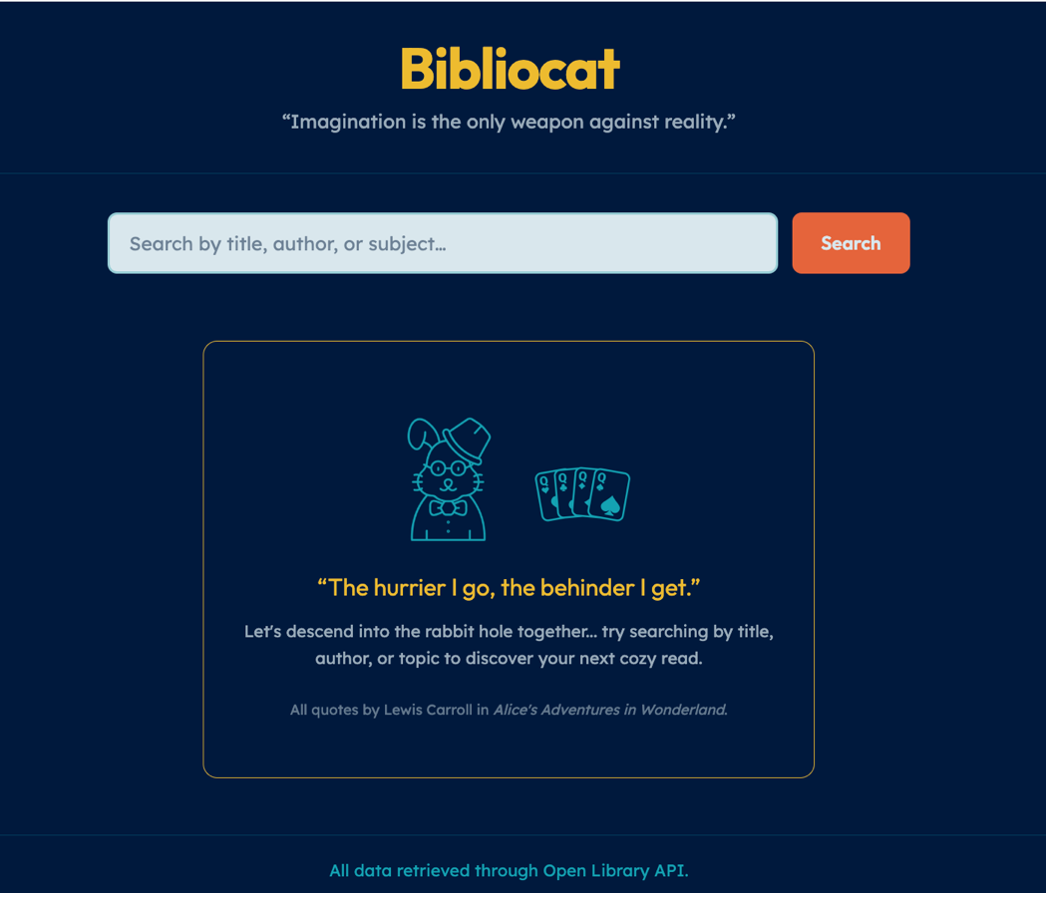
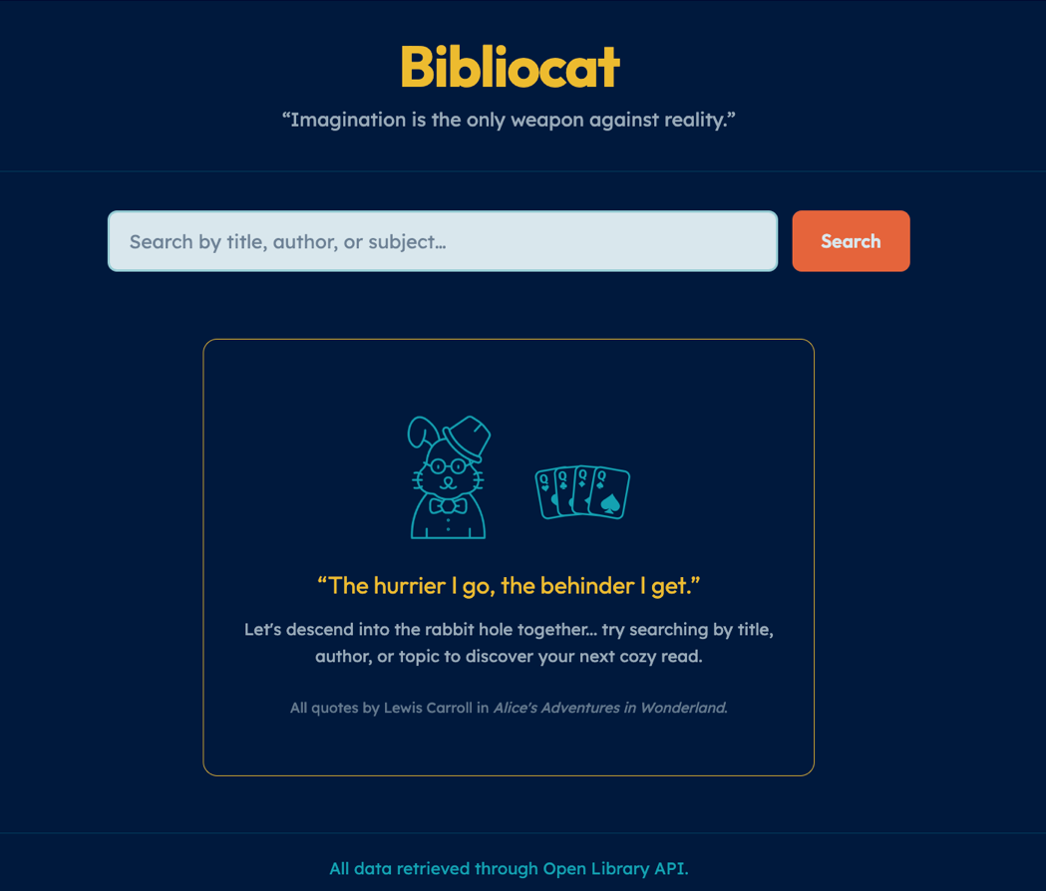
Bibliocat additional edits

diff --git a/bibliocat/index.html b/bibliocat/index.html
@@ -803,9 +803,9 @@
 
       /* Trim subpixel slide peek and screenshot edge padding on desktop */
       .theme-gallery--compact .theme-gallery__slide img {
-        width: calc(100% + 4px);
+        width: calc(100% + 8px);
         max-width: none;
-        margin-left: -2px;
+        margin-left: -4px;
         object-position: center center;
       }
     }
@@ -1225,7 +1225,7 @@
         <p class="project-hero__tagline type-subheading">Book search and discovery for titles, authors, and covers.</p>
         <p class="project-hero__summary type-body text-muted">Fall down the rabbit hole of literature with Bibliocat, a book discovery tool powered by Open Library API. Search by title, author, or subject to find your next great adventure.</p>
         <figure class="project-hero__media">
-          <img src="assets/hero-mockup-new-biblio.png" alt="Meet Bibliocat feature overview with an Enchanted User Experience summary beside a tablet mockup of the Bibliocat home page.">
+          <img src="assets/mockup-hero-new-biblio.png" alt="Meet Bibliocat feature overview with an Enchanted User Experience summary beside a tablet mockup of the Bibliocat home page.">
         </figure>
         <dl class="project-meta">
           <div class="project-meta__item">
@@ -1330,7 +1330,7 @@
             <img src="assets/prompt3.png" alt="Cursor prompt requesting a loading message and cat silhouette animation while search results load">
           </figure>
         </div>
-        <p class="section__body type-body text-muted">These are design iterations of the loading status.</p>
+        <p class="section__body type-body text-muted">The design iterations for the loading status are displayed below.</p>
         <div class="theme-gallery theme-gallery--compact" data-gallery>
           <p class="theme-gallery__hint type-caption">
             <i data-lucide="move-horizontal" aria-hidden="true"></i>
@@ -1360,7 +1360,7 @@
           </div>
           <p class="theme-gallery__caption type-body" aria-live="polite"></p>
         </div>
-        <p class="section__body type-body text-muted">It was important for me to have paw print stamps throughout the theme to emulate footprints. This video showcases the loading state in action, featuring the custom paw-print animation.</p>
+        <p class="section__body type-body text-muted">I incorporated a paw-print stamp to mimic a trail of footprints. The video below demonstrates this custom animation during the loading state.</p>
         <div class="case-study-visual case-study-visual--night">
           <p class="theme-gallery__figure-title"><span class="theme-gallery__figure-label">Figure 6.</span> Loading state in action</p>
           <figure class="theme-card__figure">
@@ -1448,7 +1448,7 @@
             <img src="assets/prompt6.png" alt="Cursor prompt optimizing search results presentation">
           </figure>
         </div>
-        <p class="section__body type-body text-muted">Later iterations included adding a &ldquo;Return to Home&rdquo; button, creating credits for icons used from Flaticon, reducing the size of the book cover images to make the search results appear sharper, and adding the book publication year and edition number.</p>
+        <p class="section__body type-body text-muted">Later iterations included adding a &ldquo;Return to Home&rdquo; button, creating credits for icons used from Flaticon, reducing the size of the book cover images to make the search results appear sharper, as well as adding the book publication year and edition number.</p>
         <div class="theme-gallery theme-gallery--compact" data-gallery>
           <p class="theme-gallery__hint type-caption">
             <i data-lucide="move-horizontal" aria-hidden="true"></i>
@@ -1481,7 +1481,7 @@
           </div>
           <p class="theme-gallery__caption type-body" aria-live="polite"></p>
         </div>
-        <p class="section__body type-body text-muted">I also continued styling the home page across several prompt and design passes.</p>
+        <p class="section__body type-body text-muted">I also continued styling the home page, developing several additional prompts to further refine the design.</p>
         <div class="theme-gallery theme-gallery--compact" data-gallery>
           <p class="theme-gallery__hint type-caption">
             <i data-lucide="move-horizontal" aria-hidden="true"></i>
@@ -1585,20 +1585,22 @@
                 <img src="assets/bibliocat-search-screens.png" alt="Bibliocat search results on tablet and book detail view on phone showing Yellowface by R. F. Kuang">
               </figure>
               <ul class="feature-list type-body">
-                <li><strong>Quick search shortcuts —</strong> Unlock a seamless reading experience by simply clicking on the &ldquo;Surprise Me,&rdquo; &ldquo;Featured Author,&rdquo; or &ldquo;Fantasy&rdquo; genre filters, allowing you to effortlessly discover your next favorite book.</li>
-                <li><strong>Responsive UI feedback —</strong> Bibliocat captivates users with enchanting Alice-in-Wonderland-themed animations during loading states, ensuring the interface remains engaging and interactive while API calls are underway.</li>
+                <li><strong>Integrated summary retrieval —</strong> By capturing the unique work key for each search result, the application dynamically retrieves and displays detailed book descriptions to significantly enhance the user&rsquo;s experience.</li>
               </ul>
               <p class="theme-gallery__figure-title"><span class="theme-gallery__figure-label">Figure 17.</span> Themed loading feedback</p>
               <figure class="theme-card__figure theme-card__figure--full-width">
                 <img src="assets/bibliocat-loading-states.png" alt="Bibliocat loading states showing Alice-inspired animations and paw-print feedback">
               </figure>
               <ul class="feature-list type-body">
-                <li><strong>Integrated summary retrieval —</strong> By capturing the unique work key for each search result, the application dynamically retrieves and displays detailed book descriptions to significantly enhance the user&rsquo;s experience.</li>
+                <li><strong>Responsive UI feedback —</strong> Bibliocat captivates users with enchanting Alice-in-Wonderland-themed animations during loading states, ensuring the interface remains engaging and interactive while API calls are underway.</li>
               </ul>
               <p class="theme-gallery__figure-title"><span class="theme-gallery__figure-label">Figure 18.</span> Polished home page</p>
               <figure class="theme-card__figure theme-card__figure--full-width">
                 <img src="assets/bibliocat-home-laptop.png" alt="Bibliocat home page on a laptop with search, shortcuts, and Alice-inspired branding">
               </figure>
+              <ul class="feature-list type-body">
+                <li><strong>Quick search shortcuts —</strong> Easily discover your next favorite book by clicking on the &ldquo;Surprise Me,&rdquo; &ldquo;Featured Author,&rdquo; or &ldquo;Fantasy&rdquo; genre filters for a smooth, intuitive reading journey.</li>
+              </ul>
             </div>
           </div>
         </div>
@@ -1610,7 +1612,7 @@
         <header class="section__header">
           <h2 class="type-display-md case-caps">Deployment</h2>
         </header>
-        <p class="section__body type-body text-muted">The deployment provides users with an immersive, responsive, Alice-in-Wonderland-themed search tool that integrates data from the Open Library API. The Bibliocat application is live on Netlify.</p>
+        <p class="section__body type-body text-muted">The deployment provides users with an immersive, responsive, <em>Alice in Wonderland</em> themed search tool that integrates data from the Open Library API. The Bibliocat application is live on Netlify.</p>
         <p class="project-hero__actions">
           <a href="https://bibliocat.netlify.app/" class="btn btn--default btn--primary" target="_blank" rel="noopener noreferrer">
             Open published app
@@ -1624,7 +1626,7 @@
         <header class="section__header">
           <h2 class="type-display-md case-caps">Reflection</h2>
         </header>
-        <p class="section__body type-body text-muted">I most enjoyed moving beyond basic API integration to add themed loading states and consistent branding, which can create a more welcoming environment online. Technical hurdles, including creating a looping CSS animation for the pawprints during the loading state, enhanced my ability to use AI as a collaborator to resolve challenges. While I&rsquo;m happy with the current version, future iterations could include more filtering options, such as limiting results by subject and genre. Furthermore, to enhance the enchanted Alice in Wonderland theme, I&rsquo;d like to explore adding more animated imagery. For example, replacing the static teapot and teacup in the error state with a dynamic animation of tea being poured into a cup.</p>
+        <p class="section__body type-body text-muted">I most enjoyed moving beyond basic API integration to add themed loading states and consistent branding, which creates a more welcoming environment online. Technical hurdles, including integrating a looping CSS animation for the pawprints during the loading state, enhanced my ability to use AI as a collaborator to resolve challenges. While I&rsquo;m happy with the current version, future iterations could include more filtering options, such as limiting results by subject and genre. Furthermore, to enhance the enchanted <em>Alice in Wonderland</em> theme, I&rsquo;d like to explore adding more animated imagery. For example, replacing the static teapot and teacup in the error state with a dynamic animation of tea being poured into a teacup.</p>
       </div>
     </section>
 

diff --git a/bibliocat/content.md b/bibliocat/content.md
@@ -6,7 +6,7 @@ cardDescription: "Book search and discovery for titles, authors, and covers."
 coverImage: "assets/biblio-cover-new.png"
 coverAlt: "Bibliocat project cover"
 summary: "Fall down the rabbit hole of literature with Bibliocat, a book discovery tool powered by Open Library API. Search by title, author, or subject to find your next great adventure."
-heroImage: "assets/hero-mockup-new-biblio.png"
+heroImage: "assets/mockup-hero-new-biblio.png"
 heroAlt: "Bibliocat search results page showing a list of Dave Eggers books displayed under a 'Your Curious Collection' heading."
 externalUrl: "https://bibliocat.netlify.app/"
 role: "UX Designer & Full-Stack Developer"
@@ -49,7 +49,7 @@ I developed the following prompt and sent it to Cursor.
 
 Please insert “prompt3.png”
 
-These are design iterations of the loading status.
+The design iterations for the loading status are displayed below.
 
 Please insert “cat-themed loading” then “alice-themed-loading.png”, and finally “down-the-rabbit-hole.png” in a gallery box.
 
@@ -118,11 +118,13 @@ Bibliocat was created to streamline the book-finding process while fostering a w
 -	**Intuitive Discovery:** Designed as a bibliographic catalog, the app uses Open Library API to provide a cozy book-finding experience that prioritizes discoverability and seamless access.
 Insert image placeholder
 
--	**Quick Search Shortcuts** Unlock a seamless reading experience by simply clicking on the “surprise me,” “featured author,” or “fantasy” genre filters, allowing you to effortlessly discover your next favorite book.
--	**Responsive UI Feedback:** Bibliocat captivates users with enchanting Alice-in-Wonderland-themed animations during loading states, ensuring the interface remains engaging and interactive while API calls are underway.
-Insert image placeholder
-
 -	**Integrate Summary Retrieval:** By capturing the unique work key for each search result, the application dynamically retrieves and displays detailed book descriptions to significantly enhance the user’s experience
+
+Insert image placeholder
+-	**Responsive UI Feedback:** Bibliocat captivates users with enchanting Alice-in-Wonderland-themed animations during loading states, ensuring the interface remains engaging and interactive while API calls are underway.
+
+Insert image placeholder
+-	**Quick Search Shortcuts** Easily discover your next favorite book by clicking on the “Surprise Me,” “Featured Author,” or “Fantasy” genre filters for a smooth, intuitive reading journey.
 
 <!-- theme: lavender -->
 <!-- features: true -->
@@ -130,14 +132,14 @@ Insert image placeholder
 ## Deployment
 
 
-The deployment provides users with an immersive, responsive, Alice-in-Wonderland-themed search tool that integrates data from the Open Library API. The Bibliocat application is live on Netlify. 
+The deployment provides users with an immersive, responsive, *Alice in Wonderland* themed search tool that integrates data from the Open Library API. The Bibliocat application is live on Netlify. 
 
 Insert primary-button “Open published app”: https://bibliocat.netlify.app 
 
 
 ## Reflection
 
-I most enjoyed moving beyond basic API integration to add themed loading states and consistent branding, which can create a more welcoming environment online. Technical hurdles, including creating a looping CSS animation for the pawprints during the loading state, enhanced my ability to use AI as a collaborator to resolve challenges. While I’m happy with the current version, future iterations could include more filtering options, such as limiting results by subject and genre. Furthermore, to enhance the enchanted Alice in Wonderland theme, I’d like to explore adding more animate imagery. For example, replacing the static teapot and teacup in the error state with a dynamic animation of tea being poured into a cup. 
+I most enjoyed moving beyond basic API integration to add themed loading states and consistent branding, which can create a more welcoming environment online. Technical hurdles, including creating a looping CSS animation for the pawprints during the loading state, enhanced my ability to use AI as a collaborator to resolve challenges. While I’m happy with the current version, future iterations could include more filtering options, such as limiting results by subject and genre. Furthermore, to enhance the enchanted *Alice in Wonderland* theme, I’d like to explore adding more animate imagery. For example, replacing the static teapot and teacup in the error state with a dynamic animation of tea being poured into a cup. 
 
 Insert a secondary button: “Back to featured work”: https://molly-griffin.netlify.app/
 